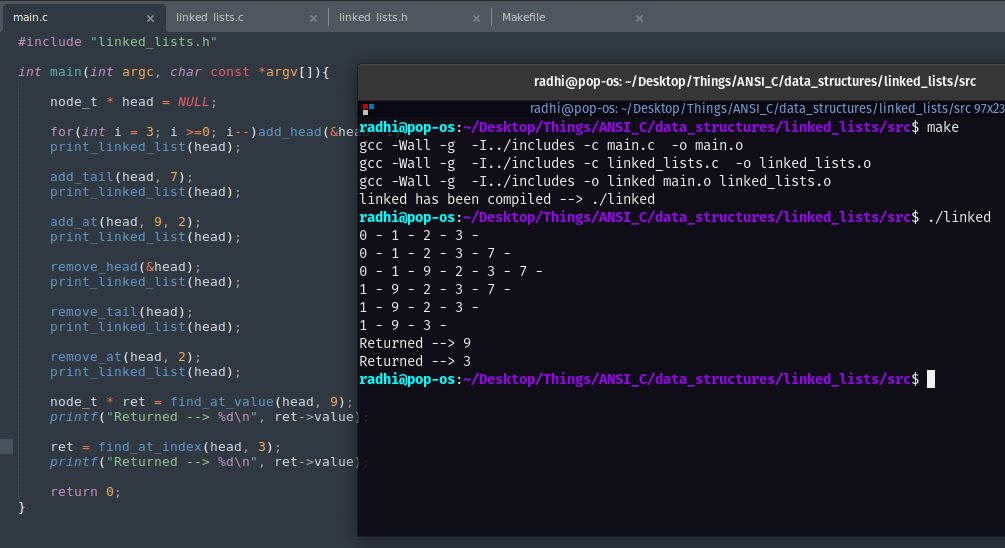
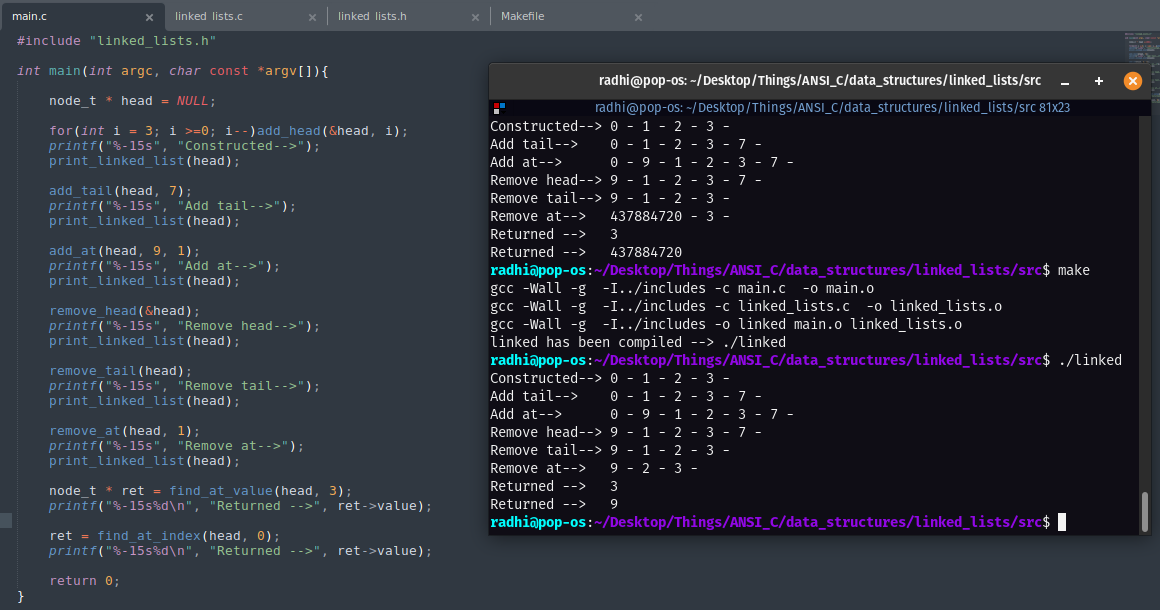
Tested and fixed some corner cases

Changed region(s): [[0.0, 0.0, 1.0, 0.9927], [0.0308, 0.3102, 0.2468, 0.3723], [0.3701, 0.0931, 0.401, 0.1241]]

diff --git a/data_structures/linked_lists/src/linked_lists.c b/data_structures/linked_lists/src/linked_lists.c
@@ -26,15 +26,16 @@ void add_tail(node_t * head, int val){
 	temporary->next->next = NULL;
 }
 
-/* ONE INDEXED */
+/* ZERO INDEXED */
 void add_at(node_t * head, int val, int index){
 	if(head == NULL) return; /* Already empty */
+	if(index <= 0) return; /* To add at 0, we need a double pointer to the head */
 
 	unsigned int i;
 	node_t * temporary;
 
 	/* Traverse the linked list until we either reach the end of it OR we reach the desired index */
-	for(temporary = head, i = 0; temporary->next && i < index-1; temporary = temporary->next, i++);
+	for(temporary = head, i = 0; i < index-1 && temporary->next; temporary = temporary->next, i++);
 
 	if(i != index-1) return; /* Index out of range */
 
@@ -44,8 +45,7 @@ void add_at(node_t * head, int val, int index){
 
 	/* The next two instructions must be in order */ 
 	new_node->next = temporary->next;
-	temporary->next = new_node;
-	
+	temporary->next = new_node;	
 }
 
 /* ---------------------------------------------------------------------- */
@@ -74,21 +74,24 @@ void remove_tail(node_t * head){
 	free(to_remove);
 }
 
-/* ONE INDEXED */
+/* ZERO INDEXED */
 void remove_at(node_t * head, int index){
 	if(head == NULL) return; /* Already empty */
+
+	if(index <= 0) return; /* To remove at 0, we need a double pointer to the head */
 
 	unsigned int i;
 	node_t * temporary;
 
 	/* traverse the linked list until we reach the before-last item */
-	for(temporary = head, i = 0; temporary->next->next && i < index-1; temporary = temporary->next, i++);
+	for(temporary = head, i = 0; i < index-1 && temporary->next->next; temporary = temporary->next, i++);
 
 	if(i != index-1) return; /* Index out of range */
 
 	node_t * to_remove = temporary->next;
 	temporary->next = temporary->next->next;
 	free(to_remove);
+
 }
 
 /* ---------------------------------------------------------------------- */
@@ -97,13 +100,8 @@ void remove_at(node_t * head, int index){
 
 node_t* find_at_value(node_t * head, int val){
 	if(head == NULL) return NULL;
-	
 	node_t * temporary = head;
-
-	while(temporary->next){
-		if(temporary->value == val) return temporary;
-		temporary = temporary->next;
-	}
+	do{ if(temporary->value == val) return temporary; } while((temporary = temporary->next));
 	return NULL;
 }
 
@@ -113,9 +111,9 @@ node_t* find_at_index(node_t * head, int index){
 	unsigned int i;
 	node_t * temporary;
 
-	for(temporary = head, i = 0; temporary->next && i < index-1; temporary = temporary->next, i++);	
+	for(temporary = head, i = 0; i < index && temporary->next; temporary = temporary->next, i++);
 
-	if(i != index-1) return NULL; /* Index out of range */
+	if(i != index) return NULL; /* Index out of range */
 	return temporary;
 }
 

diff --git a/data_structures/linked_lists/src/main.c b/data_structures/linked_lists/src/main.c
@@ -5,28 +5,34 @@ int main(int argc, char const *argv[]){
 	node_t * head = NULL;
 	
 	for(int i = 3; i >=0; i--)add_head(&head, i);
+	printf("%-15s", "Constructed-->");
 	print_linked_list(head);
 
 	add_tail(head, 7);
+	printf("%-15s", "Add tail-->");
 	print_linked_list(head);
 
-	add_at(head, 9, 2);
+	add_at(head, 9, 1);
+	printf("%-15s", "Add at-->");
 	print_linked_list(head);
 	
-	remove_head(&head);	
+	remove_head(&head);
+	printf("%-15s", "Remove head-->");	
 	print_linked_list(head);
 
 	remove_tail(head);	
+	printf("%-15s", "Remove tail-->");
 	print_linked_list(head);
 
-	remove_at(head, 2);	
+	remove_at(head, 1);
+	printf("%-15s", "Remove at-->");
 	print_linked_list(head);
 
-	node_t * ret = find_at_value(head, 9);	
-	printf("Returned --> %d\n", ret->value);
+	node_t * ret = find_at_value(head, 3);	
+	printf("%-15s%d\n", "Returned -->", ret->value);
 
-	ret = find_at_index(head, 3);	
-	printf("Returned --> %d\n", ret->value);
+	ret = find_at_index(head, 0);	
+	printf("%-15s%d\n", "Returned -->", ret->value);
 
 	return 0;
 }
